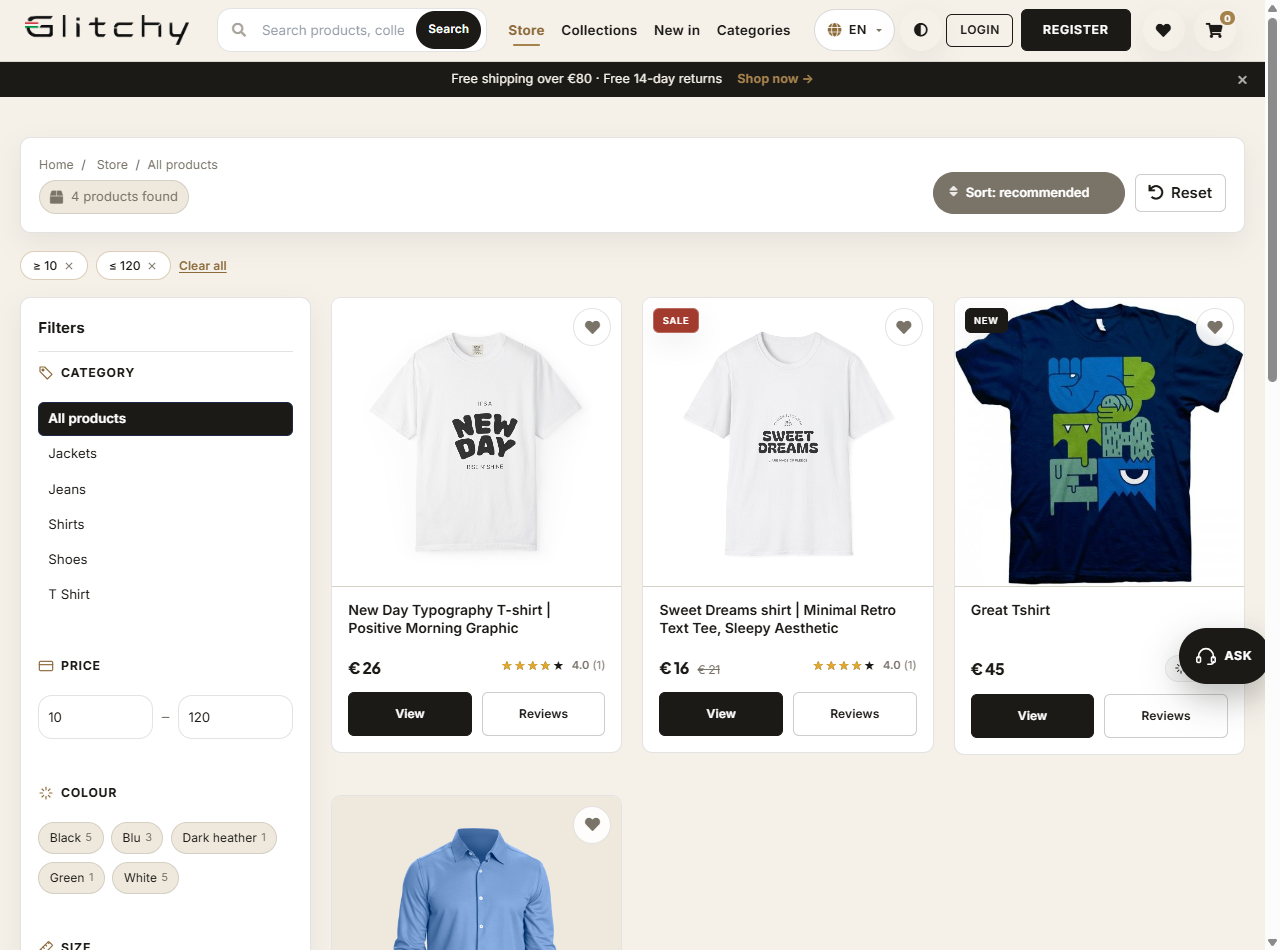
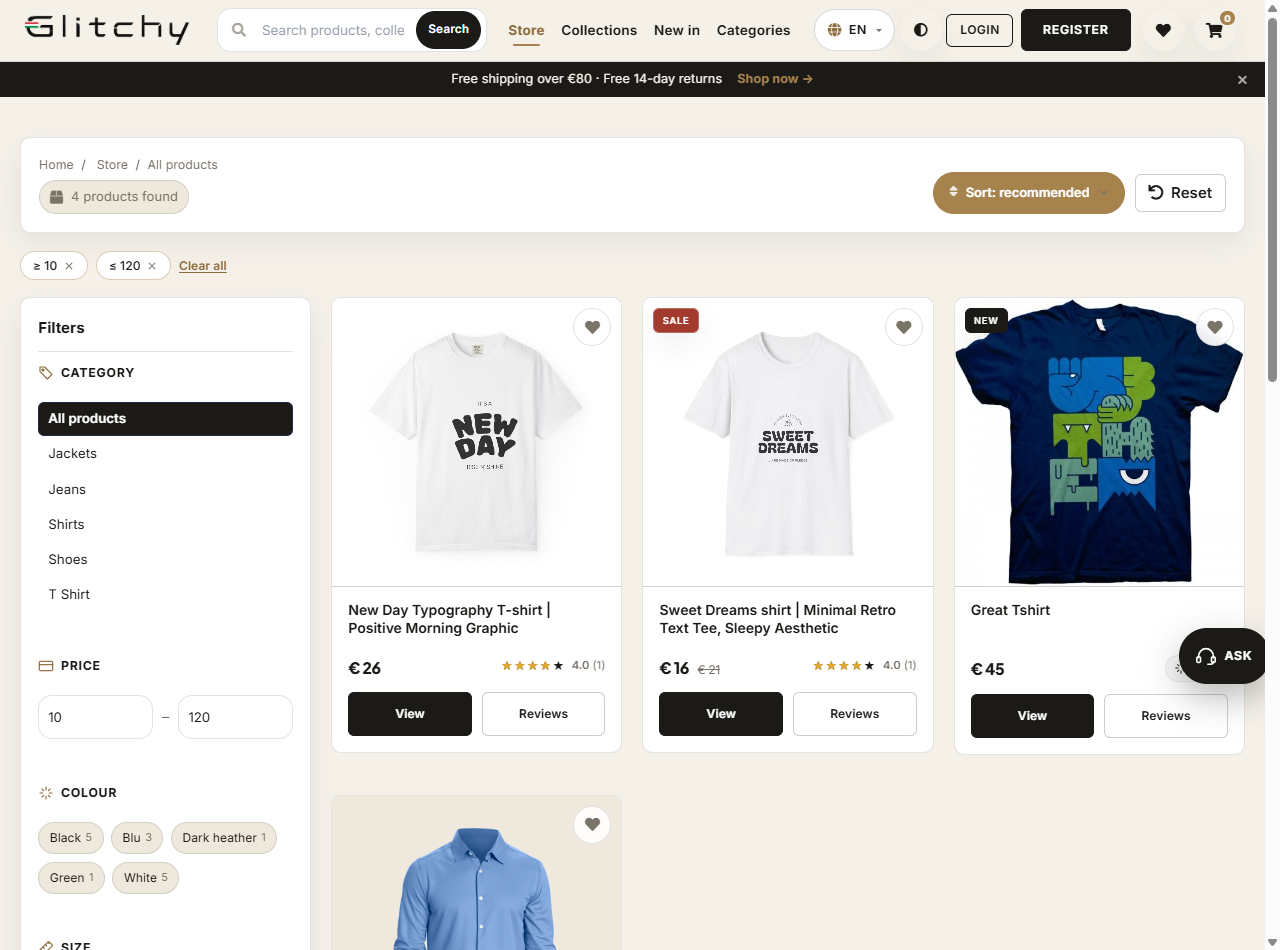
ui: limit the gold inversion to the Sort button only
Per owner feedback: only the "Sort" button uses the gold (--btn-elegant) inverted
treatment. .btn-soft keeps its now-visible border at rest but returns to a subtle
hover (surface-2 + accent border), no gold fill.

Changed region(s): [[0.7188, 0.1832, 0.875, 0.2442]]

diff --git a/greatkart/static/css/premium.css b/greatkart/static/css/premium.css
@@ -102,10 +102,8 @@ input:focus-visible,select:focus-visible,textarea:focus-visible{
   transition:background .2s var(--ease),color .2s var(--ease),border-color .2s var(--ease)!important;}
 /* Invert on hover (no more "white on white"): fills with the brand primary and
    flips the text to the page bg — works in light and dark. */
-.btn-soft:hover,.btn.btn-soft:hover{background:var(--btn-elegant)!important;color:#fff!important;
-  border-color:var(--btn-elegant)!important;}
-/* Win over the dark-mode base color override on hover (keeps text readable). */
-:root[data-theme="dark"] .btn-soft:hover,:root[data-theme="dark"] .btn.btn-soft:hover{color:#fff!important;}
+/* Subtle hover (only the Sort button uses the gold inversion). */
+.btn-soft:hover,.btn.btn-soft:hover{background:var(--surface-2)!important;border-color:var(--accent)!important;}
 .btn-dark{background:var(--primary)!important;border-color:var(--primary)!important;}
 .btn-link{color:var(--accent-2)!important;}
 
